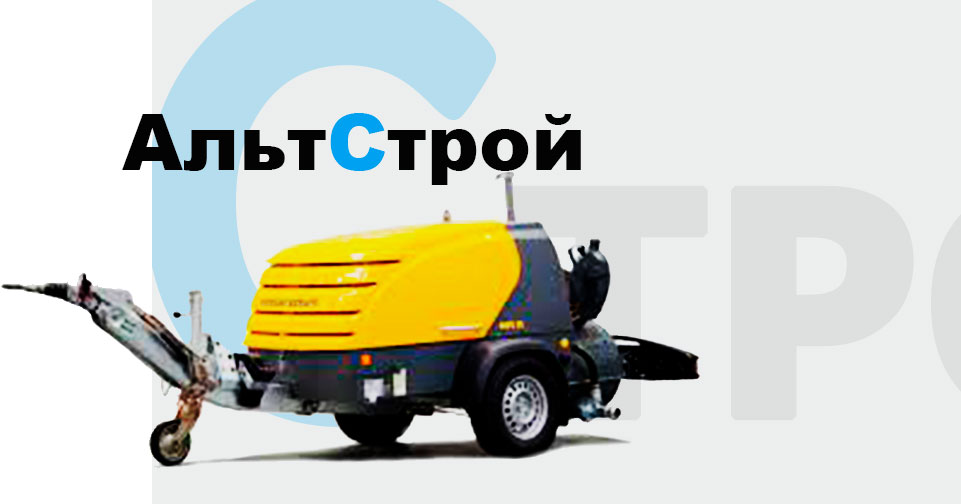
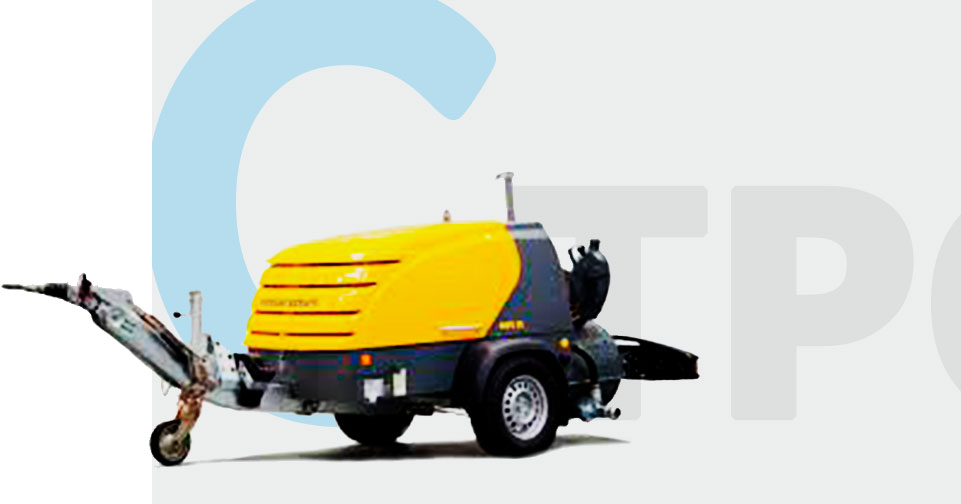
Release-1

Changed region(s): [[0.1249, 0.2083, 0.6243, 0.3869]]

diff --git a/altstroi/index.html b/altstroi/index.html
@@ -15,7 +15,7 @@
 <body>
     <div class="menu">
         <div class="container">
-            <div class="col-lg-2 mobile" style="padding-left:0px; padding-right: 0px;">
+            <div class="col-12 col-xs-12 col-sm-12 col-lg-12 mobile" style="padding-left:0px; padding-right: 0px;">
                 <div class="toggle-button">
                     <div class="t1"></div>
                     <div class="t2"></div>
@@ -58,8 +58,8 @@
                     <h1>Полусухая стяжка пола
                         <br>по Татарстану</h1>
                 </div>
-                <div class="col-12 col-xl-7">
-                    <div>
+                <div class="col-12 col-md-6 col-xl-7">
+                    <div class="mob-text-center">
                         <span class="leavefeedback">оставь заявку</span>
                         <span class="getsize">
                             <br>и получи замерку
@@ -69,7 +69,7 @@
                         </div>
                     </div>
                 </div>
-                <div class="col-12 col-xl-5 nopadding mobform">
+                <div class="col-12 col-md-6 col-xl-5 nopadding mobform">
                     <div class="formdiv visibform" style="text-align:center;">
                         <div class="d-inline-block">
                             <div class="formhead">
@@ -99,7 +99,7 @@
                     <h1>О Компании</h1>
                     <div class="line"></div>
                 </div>
-                <div class="col-12 col-xl-6">
+                <div class="col-12 col-md-6 col-xl-6 middlesize">
                     <div class="text">
                         <p>Компания занимается полусухой стяжкой полов и работает с 2009 года. Сейчас мы являемся лидерами рынка
                             по Татарстану.
@@ -112,7 +112,9 @@
                     </div>
                 </div>
                 <div class="col-6">
-                    <div class="head"></div>
+                    <div class="logo">
+                        <span>Альт<span class="letter">C</span>трой</span>
+                    </div>
                 </div>
             </div>
         </div>
@@ -251,36 +253,16 @@
         <h1>Наши работы</h1>
         <div class="frame" id="basic" style="overflow: hidden;">
             <ul class="clearfix" style="transform: translateZ(0px) translateX(0px); width: 6840px;">
-                <li class="active">0</li>
-                <li class="">1</li>
-                <li class="">2</li>
-                <li class="">3</li>
-                <li>4</li>
-                <li>5</li>
-                <li>6</li>
-                <li>7</li>
-                <li>8</li>
-                <li>9</li>
-                <li>10</li>
-                <li>11</li>
-                <li>12</li>
-                <li>13</li>
-                <li>14</li>
-                <li>15</li>
-                <li>16</li>
-                <li>17</li>
-                <li>18</li>
-                <li>19</li>
-                <li>20</li>
-                <li>21</li>
-                <li>22</li>
-                <li>23</li>
-                <li>24</li>
-                <li>25</li>
-                <li>26</li>
-                <li>27</li>
-                <li>28</li>
-                <li>29</li>
+                <li class="active"><img src="assets/img/works/1.jpg"></li>
+                <li><img src="assets/img/works/2.jpg"></li>
+                <li><img src="assets/img/works/3.jpg"></li>
+                <li><img src="assets/img/works/4.jpg"></li>
+                <li><img src="assets/img/works/5.jpg"></li>
+                <li><img src="assets/img/works/6.jpg"></li>
+                <li><img src="assets/img/works/7.jpg"></li>
+                <li><img src="assets/img/works/8.jpg"></li>
+                <li><img src="assets/img/works/9.jpg"></li>
+                <li><img src="assets/img/works/10.jpg"></li>
             </ul>
         </div>
         <div class="container">

diff --git a/altstroi/assets/css/styles.css b/altstroi/assets/css/styles.css
@@ -98,6 +98,7 @@ header .line {
   height:4px;
   width:45px;
   margin-top:16px;
+  background-color: white;
 }
 
 header .politicainform {
@@ -128,6 +129,12 @@ header .politicainform {
   width:130px;
   background-color:#25a0ed;
   margin-bottom:40px;
+}
+.about .logo {
+  color: black;
+  text-align: right;
+  font-size: 72px;
+  margin-top: -25px;
 }
 
 .advants {
@@ -251,6 +258,7 @@ footer .divid {
   header {
     top: 0px;
     padding-bottom: 142px;
+    background-position: 60%;
   }
     header h1{
       font-size: 21px;
@@ -289,6 +297,9 @@ footer .divid {
     }
     header .line{
       display: block;
+    }
+    header .mob-text-center{
+      text-align: center;
     }
   .about {
     margin-top: 0px;
@@ -355,4 +366,51 @@ footer .divid {
   footer {
     font-size:16px;
   }
+}
+@media (max-width: 992px) {
+  header {
+    top: 0px;
+    padding-bottom: 142px;
+    background-position: 60%;
+  }
+    header h1{
+      /*font-size: 21px;*/
+    }
+    header .leavefeedback {
+      font-size: 34px;
+    }
+    header .getsize{
+      font-size: 28px;
+    }
+    header .button {
+      width: 305px;
+      font-size: 28px;
+      margin: auto;
+      margin-top: 100px;
+    }
+    header input {
+      width: 318px !important;
+    }
+    header button {
+      width: 320px !important;
+    }
+    header button {
+      padding-left: 20px;
+      padding-right: 20px;
+    }
+  .about {
+    margin-top: 0px;
+    background: initial;
+    padding: 26px 0px;
+  }
+  .about .logo {
+    display: none;
+  }
+  .middlesize{
+    max-width: 100%;
+    flex: initial;
+  }
+}
+@media (min-width: 992px ) and (max-width: 1200px){
+
 }

diff --git a/altstroi/assets/js/form.js b/altstroi/assets/js/form.js
@@ -9,7 +9,7 @@ $( document ).ready(function() {
 			data: data,
 			type: 'POST',
 			success: function(data) {
-				alert("Ваш запрос заявка принята! Ожидайте звонка")
+				alert("Ваш заявка принята! Ожидайте звонка")
 			},
 			error: function(err) {
 				console.log(err)

diff --git a/altstroi/assets/css/Menu.css b/altstroi/assets/css/Menu.css
@@ -84,8 +84,12 @@
   margin-top:7px;
   margin-right:8px;
 }
-
-@media (max-width: 767px) {
+@media (min-width: 992px ) and (max-width: 1200px){
+  .menu .nav-link{
+    padding: .5rem 6px;
+  }
+}
+@media (max-width: 992px) {
   .menu .complogo {
     display:none;
   }

diff --git a/altstroi/assets/css/horizontal.css b/altstroi/assets/css/horizontal.css
@@ -4,7 +4,7 @@
 }
 
 .frame {
-  height:250px;
+  height:450px;
   line-height:250px;
   overflow:hidden;
   margin-top:30px;
@@ -20,7 +20,7 @@
 
 .frame ul li {
   float:left;
-  width:227px;
+  width:auto;
   height:100%;
   margin:0 1px 0 0;
   padding:0;

diff --git a/altstroi/assets/css/component.css b/altstroi/assets/css/component.css
@@ -74,6 +74,10 @@ header .formhead {
 @media (min-width: 992px) and (max-width: 1199px) {
   .contactsection input {
     margin-right:21px;
+    padding: 6px 34px;
+  }
+  .contactsection .formbutton {
+    width: 267px;
   }
 }
 
